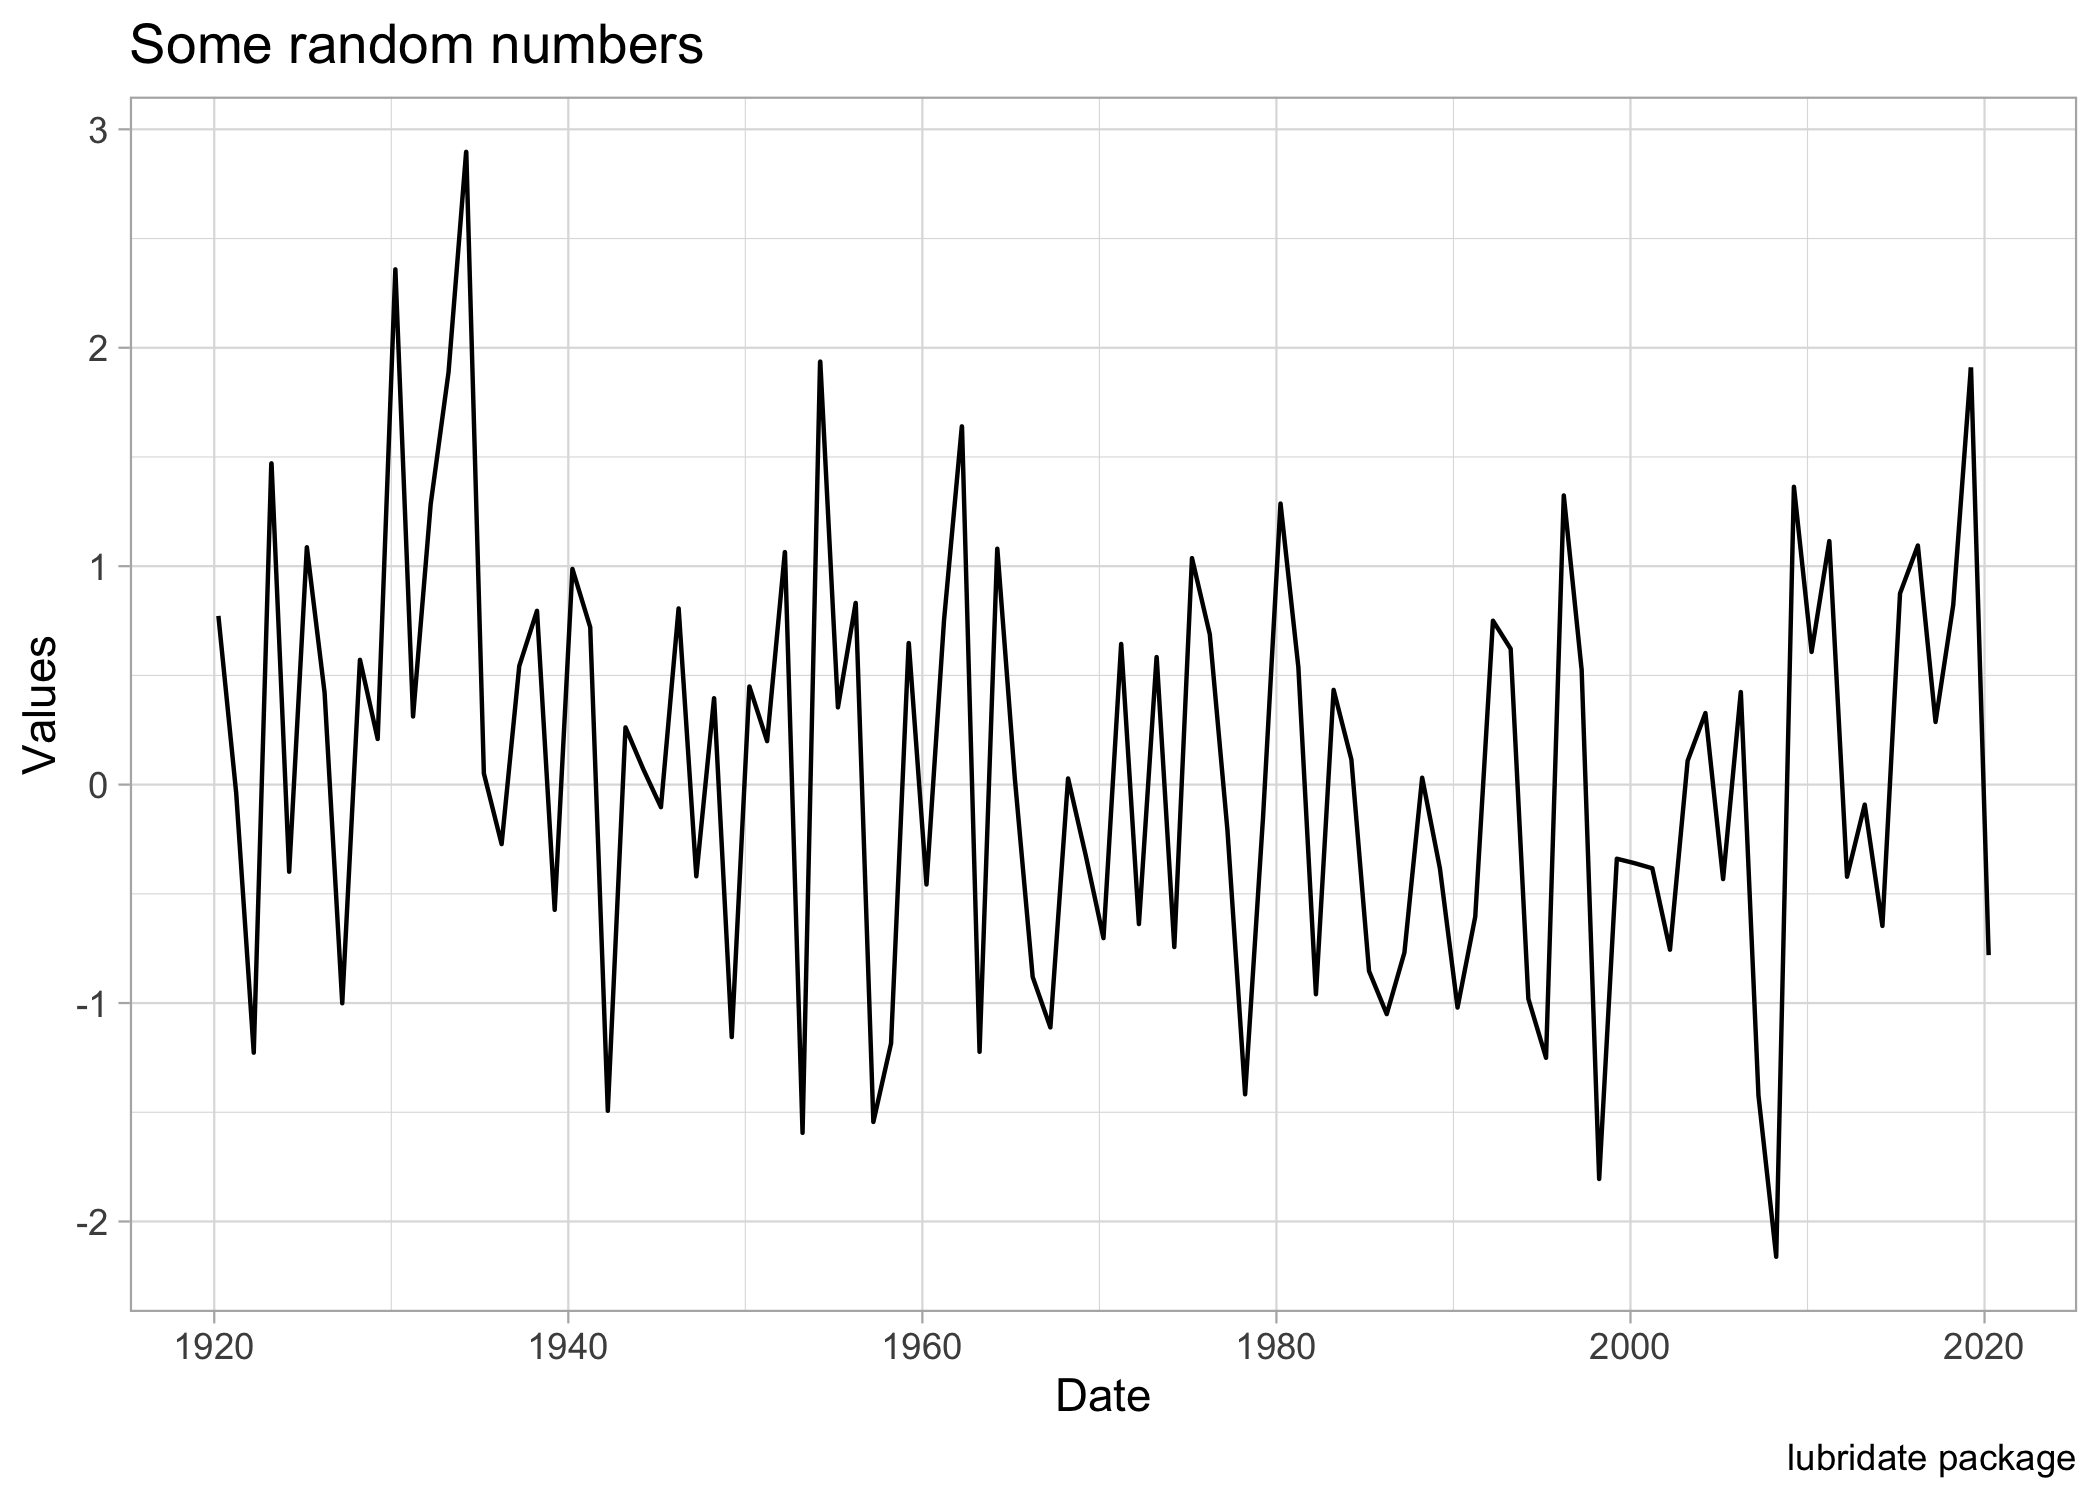
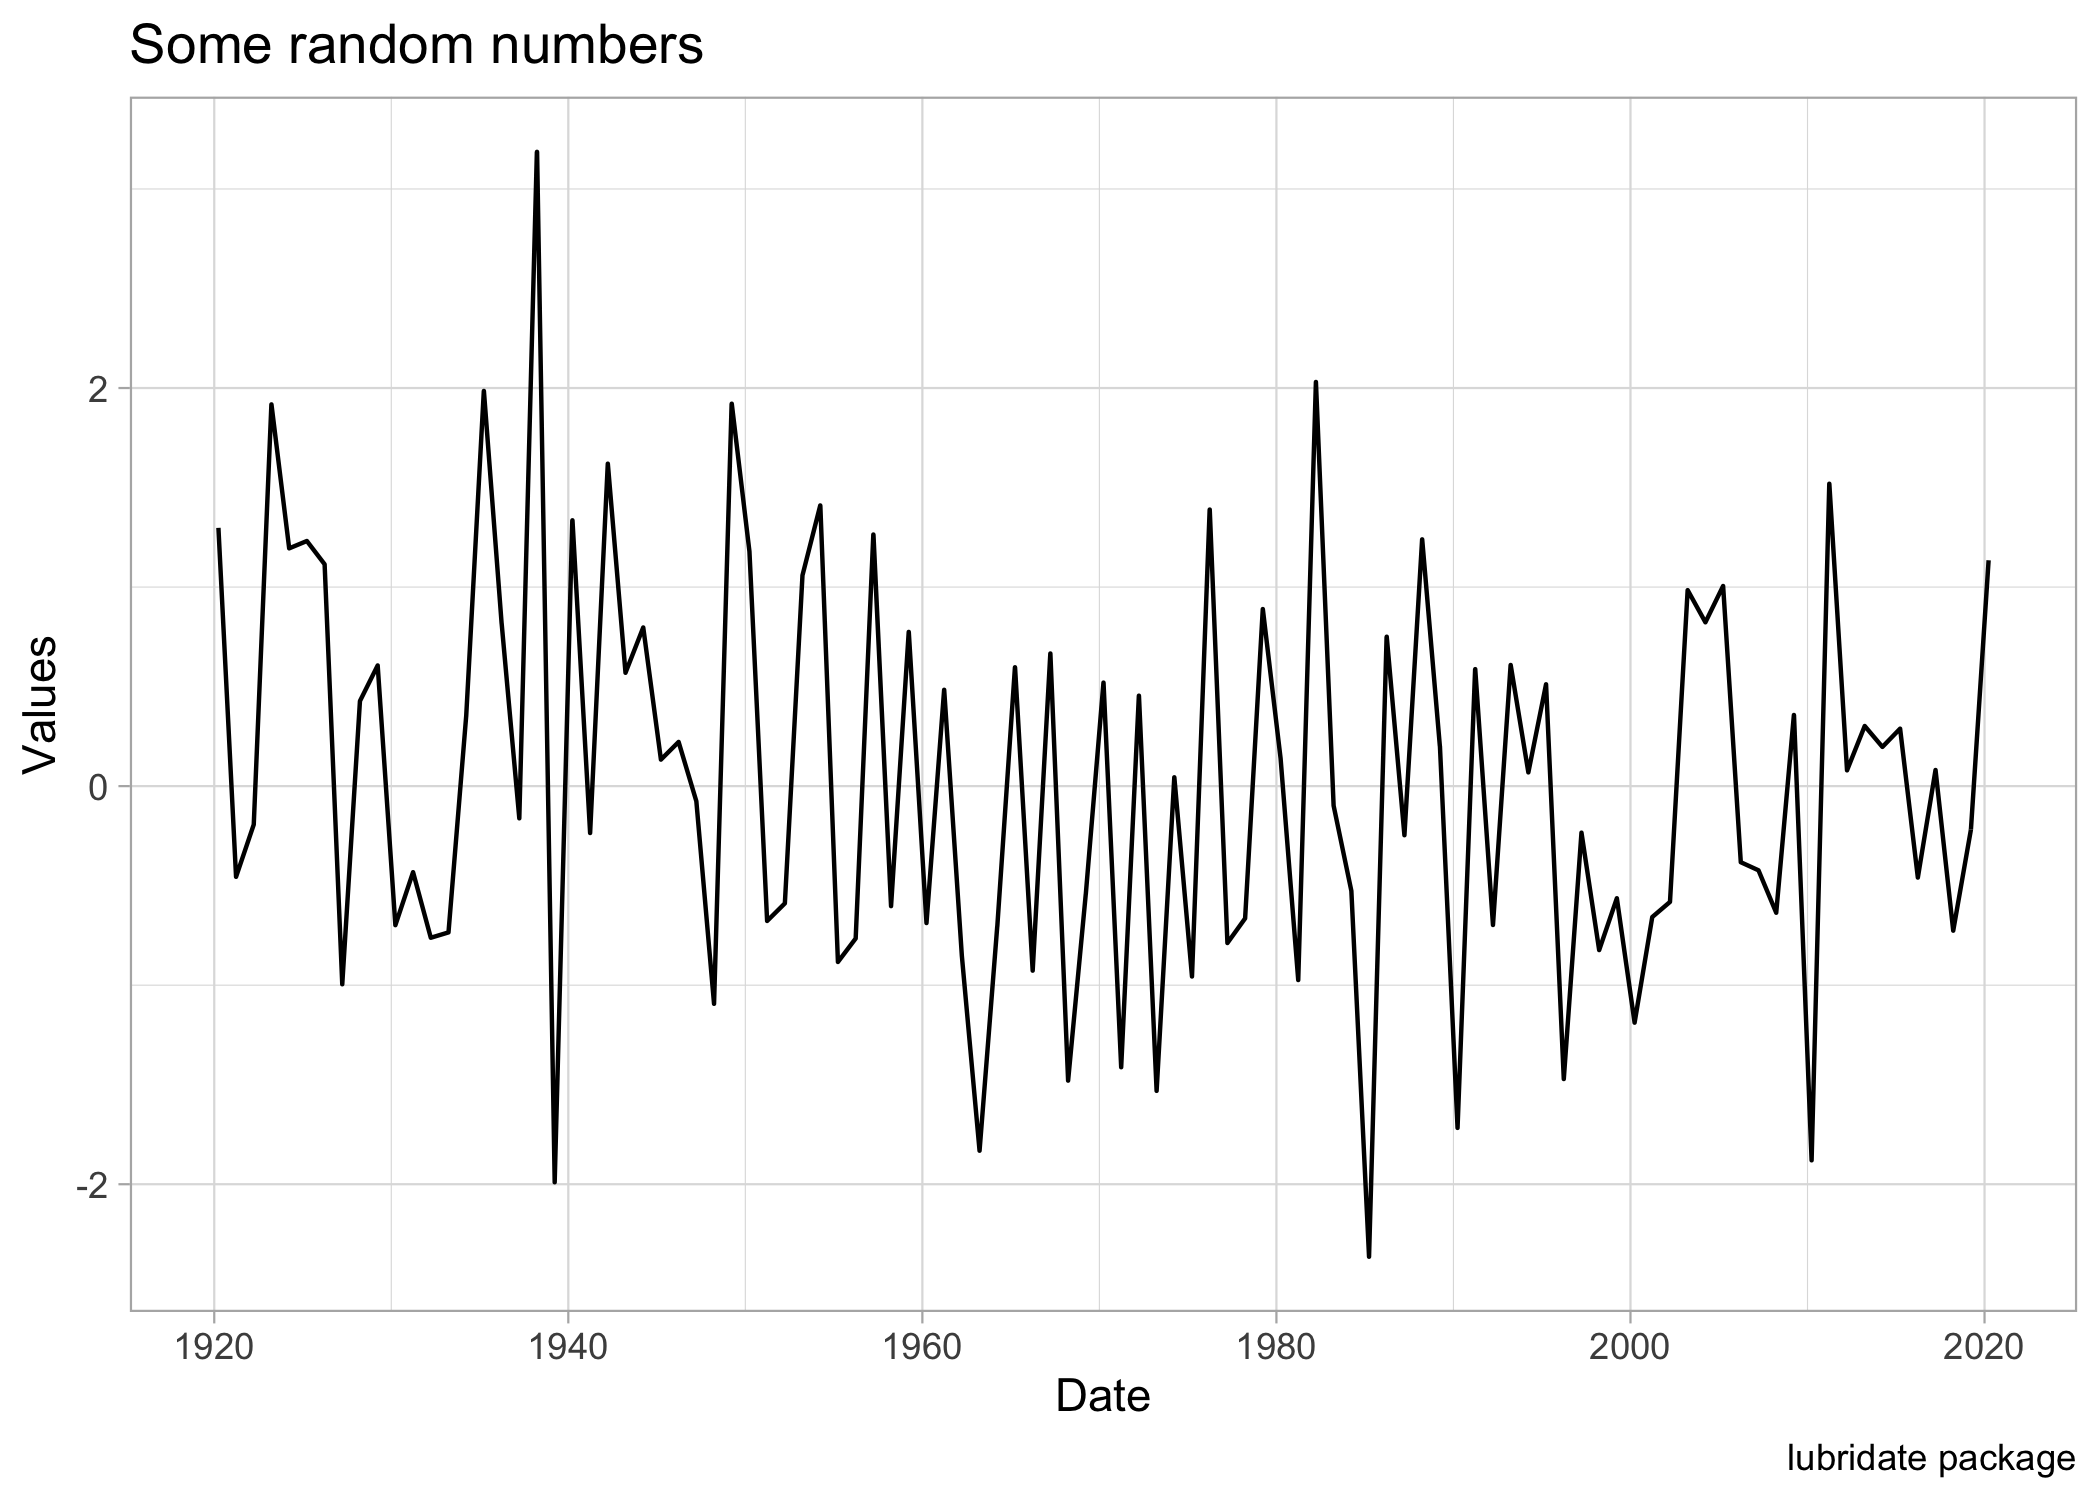
Last Update to Lubridate

diff --git a/Lubridate.md b/Lubridate.md
@@ -107,7 +107,7 @@ hour(d_this_moment)
 ```
 
 ```
-## [1] 0
+## [1] 1
 ```
 
 ```r
@@ -115,7 +115,7 @@ minute(d_this_moment)
 ```
 
 ```
-## [1] 35
+## [1] 15
 ```
 
 ```r
@@ -123,7 +123,7 @@ second(d_this_moment)
 ```
 
 ```
-## [1] 13.55031
+## [1] 59.99892
 ```
 
 ## Time intervals
@@ -238,17 +238,17 @@ head(create_data, 10)
 ```
 
 ```
-##          Date      Values
-## 1  1920-03-26  0.77233283
-## 2  1921-03-26 -0.03301827
-## 3  1922-03-26 -1.22714240
-## 4  1923-03-26  1.47073929
-## 5  1924-03-26 -0.39881403
-## 6  1925-03-26  1.08657221
-## 7  1926-03-26  0.42181258
-## 8  1927-03-26 -1.00094375
-## 9  1928-03-26  0.57120521
-## 10 1929-03-26  0.20903004
+##          Date     Values
+## 1  1920-03-26  1.2975620
+## 2  1921-03-26 -0.4556365
+## 3  1922-03-26 -0.1932643
+## 4  1923-03-26  1.9177252
+## 5  1924-03-26  1.1945447
+## 6  1925-03-26  1.2314872
+## 7  1926-03-26  1.1149729
+## 8  1927-03-26 -0.9953832
+## 9  1928-03-26  0.4278804
+## 10 1929-03-26  0.6062578
 ```
 
 ```r
@@ -260,6 +260,35 @@ ggplot(create_data, aes(x = Date, y = Values))+
 
 ![](Lubridate_files/figure-html/unnamed-chunk-10-1.png)<!-- -->
 
+
+### Creating Time Series for Specific Dates
+
+Sometimes, instead of directly adding some number of days/months/years to pre-specified values, we may need to work with two different dates and the time in between. The example given below clarifies the situation in a more compact way.
+
+
+```r
+date1 <- ymd("2019-03-01")
+date2 <- ymd("2020-03-01")
+timediff <- date2 - date1
+timediff
+```
+
+```
+## Time difference of 366 days
+```
+
+```r
+datam <- data.frame(Date = date1 + days(timediff:0), 
+                    Data = rnorm(timediff + 1))
+
+ggplot(datam, aes(Date, Data))+
+  geom_line()+
+  theme_light()
+```
+
+![](Lubridate_files/figure-html/unnamed-chunk-11-1.png)<!-- -->
+
+Observe that we add 1 to `timediff` variable when creating `Data` in data.frame to make the sizes compatible. The reason is as we explained before. The current date increases the number of days/months by 1.
 
 
 
